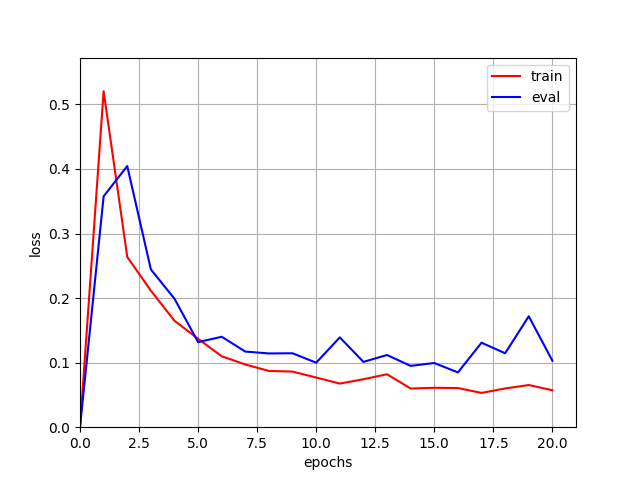
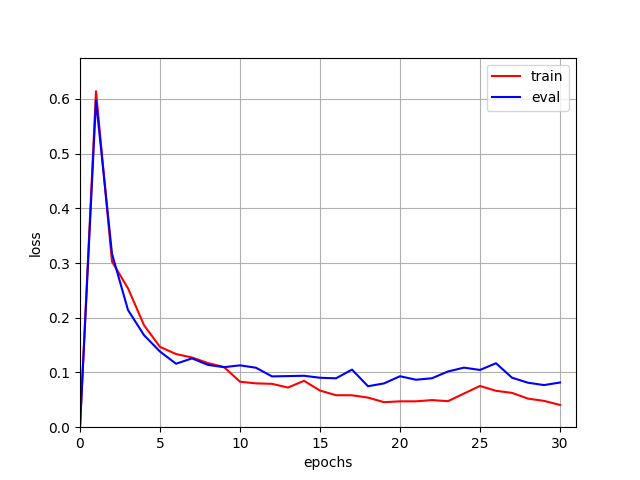
added draft of readme

diff --git a/image_processing.py b/image_processing.py
@@ -7,7 +7,7 @@ import matplotlib.pyplot as plt
 from resnet_class import ResnetClass
 import torch.nn as nn
 from PIL import Image
-from visuals_class import plot_loss
+from visuals_class import plot_loss, stitch_images
 from classdistribution import class_distribution
 from dataset import MyDataset
 from tqdm import tqdm
@@ -75,14 +75,7 @@ def machine_learning(epochs, classes, patches = 'True'):
 
                         os.makedirs('saved_images', exist_ok=True)
 
-                        try:
-                            old_file = os.listdir('saved_images')[0]
-                            Image.fromarray(pred_class).save(f'saved_images/{old_file}')
-                            os.rename(f'saved_images/{old_file}', f'saved_images/{file[0]}')
-                        except FileNotFoundError:
-                            Image.fromarray(pred_class).save(f'saved_images/{file[0]}')
-                        finally:
-                            pass
+                        stitch_images(file[0][-8:], pred_class)
 
                     output_array = torch.argmax(output, dim=1).flatten().cpu().numpy() #(1 * H * W)
                     mask_array = mask.flatten().cpu().numpy() #(1 * H * W)
@@ -98,7 +91,7 @@ def machine_learning(epochs, classes, patches = 'True'):
         macro_f1 = np.mean(np.array(scores))
         print(f'Epoch {epoch + 1}: {macro_f1:.4f}')
 
-machine_learning(epochs = 20, classes = 3, patches = 'False')
+machine_learning(epochs = 30, classes = 3, patches = 'False')
 
 
 

diff --git a/visuals_class.py b/visuals_class.py
@@ -1,6 +1,7 @@
 import matplotlib.pyplot as plt
 import os
 import numpy as np
+from PIL import Image
 
 def plot_loss(train, evaluation, current_epoch):
 
@@ -27,4 +28,14 @@ def plot_loss(train, evaluation, current_epoch):
     os.makedirs('graph_results', exist_ok = True)
     plt.savefig('graph_results/loss.png')
     plt.close()
+
+def stitch_images(file_number, mask_image):
+    for file in os.listdir('saved_images'):
+        os.remove(f'saved_images/{file}')
+    with Image.open(f'images/rgb_images/IMG_{file_number}') as img:
+        img = img.convert('L')
+        visual = np.array(img)
+        combined_array = np.hstack([mask_image, visual])
+        Image.fromarray(combined_array).save(f'saved_images/IMG_{file_number}')
+
 

diff --git a/README.md b/README.md
@@ -1,0 +1,72 @@
+# Robotics with Neural Networks
+
+* `implements the backbone of the resnet-50 neural network architecture`
+* `3 convolutions are trained separate from the backbone for segmentation`
+* `utilizes the CrossEntropy Loss Function which is advised with multiclass object designation`
+* `utilizes ReLu() activation functions and the Adam weights optimizer`
+
+## Neural Network Process
+
+* 224 by 224 RGB images are passed into the backbone in batches of 4
+* The Images are fed through the first layer of the CNN
+* This layer extracts general features (contours, texture)
+* The images are downsized through each convolution cycle
+* In each convolutional layer the images are passed through a series of 3 operations
+* First the images are passed through a Convolutional layer as tensors
+* In the Convolution (typically) a 3x3 kernel calculates the dot product for each set of 3x3 pixels in the image
+* the result is put onto an output 2D feature map
+* In sum, its essentially a linear operation: output = W * input + b
+* b is a bias that can be set but it isnt useful for our purposes
+* W is the kernel which is also referred to as the weight
+* Since there are typically 100s of kernels in a single convolution, all the output feature maps are stacked in a new tensor which is output to the BatchNorm function
+* the BatchNorm function keeps all the tensor values within a range of (-1,1) with a standard deviation of 1
+* Setting the standard deviation helps keep neurons alive as it offsets dot products that are 0 or very small negative values
+* the ReLU function then looks at each value and sets the value to 0 if it is negative
+* It also gives these values an associated gradient of 0
+* The positive values are given a gradient of 1
+* using this activation function helps delinearize the data and helps to reduce the effects of the vanishing gradient problem
+* From there, the cycle repeats
+
+## Segmentation
+
+* when we want an output from the string of convolutions, we pass in the feature maps, and call for 3 output feature maps (3 kernels)
+* these feature map values will correspond with class probabilities
+* We dont need an activation function at this point because there will be no more future passes
+* The backbone has downsized the image by a factor of 4 so we have to upsample to revert back to the original image shape
+* The resulting tensor is finally passed as our returned value
+
+
+## Backpropagation and Loss Function
+* at the end of segmentation, the output Tensor is passed through a CrossEntropyLoss instance which outputs a scalar tensor that correlates with our error with respect to our true image (ground_truth)
+* this scalar is used in our backward() function
+* the backward function is the backpropagation process
+* here the derivative of the linear string is calculated with the chain rule to determine how to optimize the input weights for each kernel (the elements)
+* our optimization handler is through Adam (a program) with a set learning rate which sets a maximum on modification
+* lastly, we call the optimizer to apply the new weights
+
+## Visualizing the Output Mask
+
+* We use argmax with our output tensor to generate the most likely class prediction for each pixel
+* It compresses our tensor from 4d [batches, classes, height, width] to 3d [batches, height, width]
+* These output images are the computer generated equivalents to our ground_truth masks
+
+## Error
+
+* Our error is collected from sklearns f1 score calculation w.r.t. our ground_truth images
+
+## How I plan to use resnet50 with Robotics
+
+* I plan to create a robot that takes in visual feedback to drive up and down my driveway
+* At the end of the driveway, it'll pick up my mail and put it into a basket
+* Lastly, it'll return up the hill to my house
+* It'll use the resnet-50 object classification code for orientation
+* I've already created a series of ground_truth images which I've edited through Photopea
+* I took the photos on my Ipad and uploaded them to my laptop for exportation
+* With minimal data (roughly 50 pictures), I've achieved a maximum f1 score of 0.91 with minimal overfitting
+* Since my data is specialized to the features of my own driveway, I would have to collect and annotate much more data if i wanted to apply it broadly
+
+## Running the Code
+
+* You can edit the configs in the called machine learning function at the end of `image_processing.py`
+* if you set patches to `True` then it'll separate each image into smaller patches (it'll take much longer and it's not advised for resnet-50)
+* you can see a visual of the gt_prediction in `saved_images`
